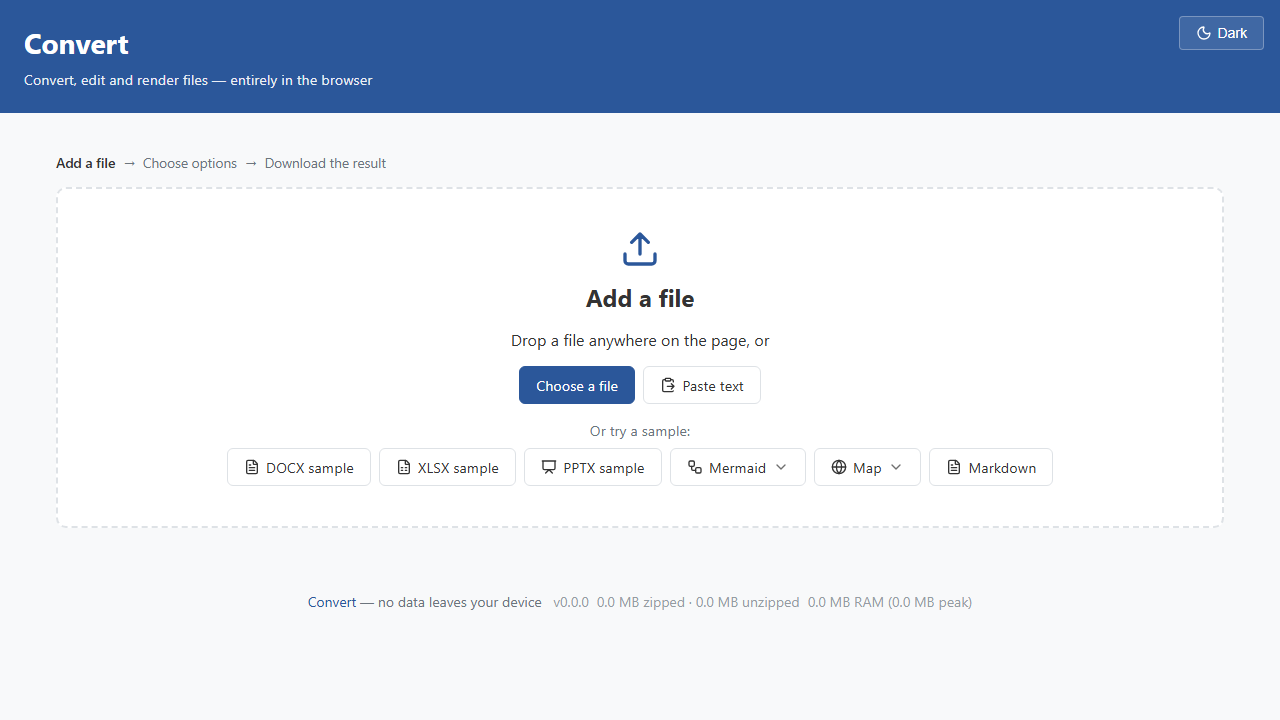
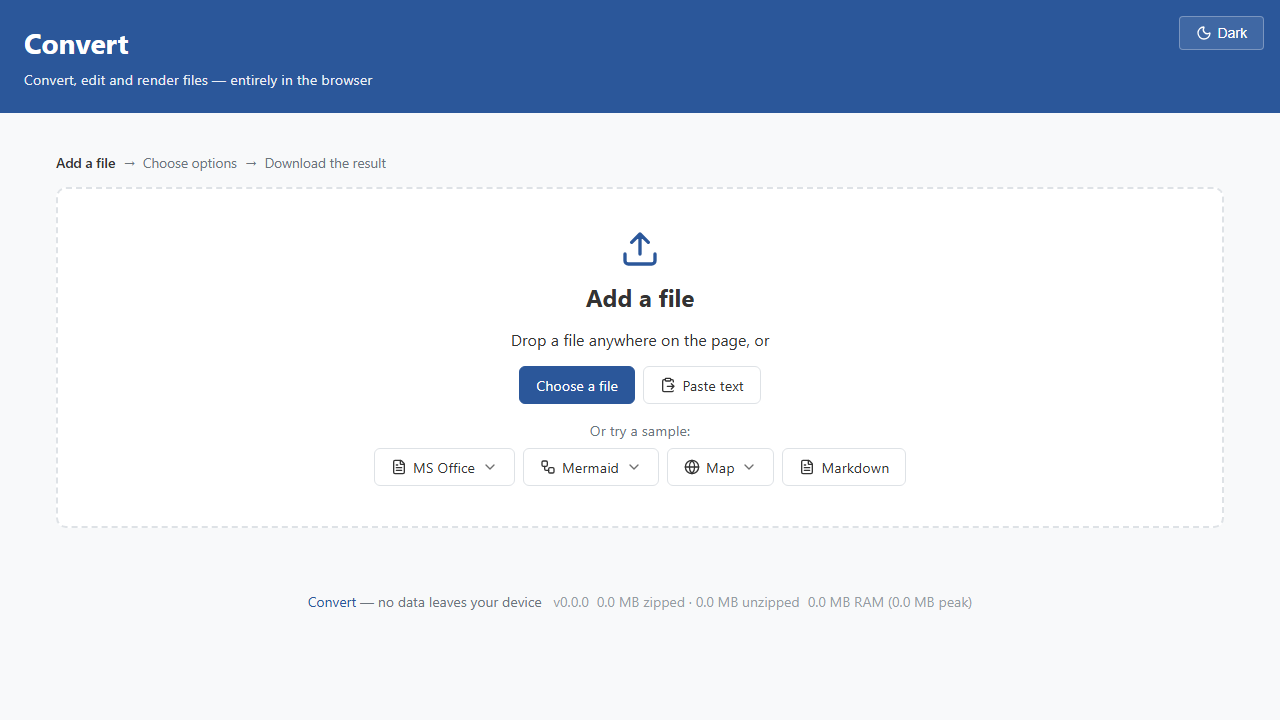
.

Changed region(s): [[0.1875, 0.6417, 0.8125, 0.6722]]

diff --git a/src/Convert.Tests/BrowserTests.HomePage_dark=False_mobile=False.verified.html b/src/Convert.Tests/BrowserTests.HomePage_dark=False_mobile=False.verified.html
@@ -31,7 +31,8 @@
             Choose a file
             <!--!--><input class="visually-hidden" accept=".txt,.html,.htm,.md,.markdown,.svg,.png,.jpg,.jpeg,.webp,.gif,.bmp,.dib,.ico,.docx,.xlsx,.pptx,.pdf,.tiff,.tif,.cur,.ani,.tga,.qoi,.ppm,.pgm,.pbm,.pnm,.exr,.wbmp,.mmd,.mermaid,.geojson,.topojson,.kml,.kmz,.gpx,.wkt,.wkb,.csv,.fgb,.parquet,.geoparquet,.pub,.json" type="file" _bl_2="" style="caret-color: transparent !important;"></label><!--!-->
         <button type="button" class="button"><!--!--><svg xmlns="http://www.w3.org/2000/svg" width="24" height="24" viewBox="0 0 24 24" class="icon" aria-hidden="true"><!--!--><g fill="none" stroke="currentColor" stroke-linecap="round" stroke-linejoin="round" stroke-width="2"><path d="M11 14h10M16 4h2a2 2 0 0 1 2 2v1.344M17 18l4-4l-4-4"></path><path d="M8 4H6a2 2 0 0 0-2 2v14a2 2 0 0 0 2 2h12a2 2 0 0 0 1.793-1.113"></path><rect width="8" height="4" x="8" y="2" rx="1"></rect></g></svg><!--!--> Paste text
-        </button></div><div class="samples"><!--!--><p>Or try a sample:</p><button type="button" class="button sample"><!--!--><svg xmlns="http://www.w3.org/2000/svg" width="24" height="24" viewBox="0 0 24 24" class="icon" aria-hidden="true"><!--!--><g fill="none" stroke="currentColor" stroke-linecap="round" stroke-linejoin="round" stroke-width="2"><path d="M6 22a2 2 0 0 1-2-2V4a2 2 0 0 1 2-2h8a2.4 2.4 0 0 1 1.704.706l3.588 3.588A2.4 2.4 0 0 1 20 8v12a2 2 0 0 1-2 2z"></path><path d="M14 2v5a1 1 0 0 0 1 1h5M10 9H8m8 4H8m8 4H8"></path></g></svg> DOCX sample</button><button type="button" class="button sample"><!--!--><svg xmlns="http://www.w3.org/2000/svg" width="24" height="24" viewBox="0 0 24 24" class="icon" aria-hidden="true"><!--!--><g fill="none" stroke="currentColor" stroke-linecap="round" stroke-linejoin="round" stroke-width="2"><path d="M6 22a2 2 0 0 1-2-2V4a2 2 0 0 1 2-2h8a2.4 2.4 0 0 1 1.704.706l3.588 3.588A2.4 2.4 0 0 1 20 8v12a2 2 0 0 1-2 2z"></path><path d="M14 2v5a1 1 0 0 0 1 1h5M8 13h2m4 0h2m-8 4h2m4 0h2"></path></g></svg> XLSX sample</button><button type="button" class="button sample"><!--!--><svg xmlns="http://www.w3.org/2000/svg" width="24" height="24" viewBox="0 0 24 24" class="icon" aria-hidden="true"><!--!--><path fill="none" stroke="currentColor" stroke-linecap="round" stroke-linejoin="round" stroke-width="2" d="M2 3h20m-1 0v11a2 2 0 0 1-2 2H5a2 2 0 0 1-2-2V3m4 18l5-5l5 5"></path></svg> PPTX sample</button><div class="sample-menu"><button type="button" class="button sample" aria-haspopup="menu" aria-expanded="false"><!--!--><svg xmlns="http://www.w3.org/2000/svg" width="24" height="24" viewBox="0 0 24 24" class="icon" aria-hidden="true"><!--!--><g fill="none" stroke="currentColor" stroke-linecap="round" stroke-linejoin="round" stroke-width="2"><rect width="8" height="8" x="3" y="3" rx="2"></rect><path d="M7 11v4a2 2 0 0 0 2 2h4"></path><rect width="8" height="8" x="13" y="13" rx="2"></rect></g></svg> Mermaid<!--!-->
+        </button></div><div class="samples"><!--!--><p>Or try a sample:</p><div class="sample-menu"><button type="button" class="button sample" aria-haspopup="menu" aria-expanded="false"><!--!--><svg xmlns="http://www.w3.org/2000/svg" width="24" height="24" viewBox="0 0 24 24" class="icon" aria-hidden="true"><!--!--><g fill="none" stroke="currentColor" stroke-linecap="round" stroke-linejoin="round" stroke-width="2"><path d="M6 22a2 2 0 0 1-2-2V4a2 2 0 0 1 2-2h8a2.4 2.4 0 0 1 1.704.706l3.588 3.588A2.4 2.4 0 0 1 20 8v12a2 2 0 0 1-2 2z"></path><path d="M14 2v5a1 1 0 0 0 1 1h5M10 9H8m8 4H8m8 4H8"></path></g></svg> MS Office<!--!-->
+                        <!--!--><svg xmlns="http://www.w3.org/2000/svg" width="24" height="24" viewBox="0 0 24 24" class="icon sample-menu-chevron" aria-hidden="true"><!--!--><path fill="none" stroke="currentColor" stroke-linecap="round" stroke-linejoin="round" stroke-width="2" d="m6 9l6 6l6-6"></path></svg></button></div><div class="sample-menu"><button type="button" class="button sample" aria-haspopup="menu" aria-expanded="false"><!--!--><svg xmlns="http://www.w3.org/2000/svg" width="24" height="24" viewBox="0 0 24 24" class="icon" aria-hidden="true"><!--!--><g fill="none" stroke="currentColor" stroke-linecap="round" stroke-linejoin="round" stroke-width="2"><rect width="8" height="8" x="3" y="3" rx="2"></rect><path d="M7 11v4a2 2 0 0 0 2 2h4"></path><rect width="8" height="8" x="13" y="13" rx="2"></rect></g></svg> Mermaid<!--!-->
                         <!--!--><svg xmlns="http://www.w3.org/2000/svg" width="24" height="24" viewBox="0 0 24 24" class="icon sample-menu-chevron" aria-hidden="true"><!--!--><path fill="none" stroke="currentColor" stroke-linecap="round" stroke-linejoin="round" stroke-width="2" d="m6 9l6 6l6-6"></path></svg></button></div><div class="sample-menu"><button type="button" class="button sample" aria-haspopup="menu" aria-expanded="false"><!--!--><svg xmlns="http://www.w3.org/2000/svg" width="24" height="24" viewBox="0 0 24 24" class="icon" aria-hidden="true"><!--!--><g fill="none" stroke="currentColor" stroke-linecap="round" stroke-linejoin="round" stroke-width="2"><circle cx="12" cy="12" r="10"></circle><path d="M12 2a14.5 14.5 0 0 0 0 20a14.5 14.5 0 0 0 0-20M2 12h20"></path></g></svg> Map<!--!-->
                         <!--!--><svg xmlns="http://www.w3.org/2000/svg" width="24" height="24" viewBox="0 0 24 24" class="icon sample-menu-chevron" aria-hidden="true"><!--!--><path fill="none" stroke="currentColor" stroke-linecap="round" stroke-linejoin="round" stroke-width="2" d="m6 9l6 6l6-6"></path></svg></button></div><button type="button" class="button sample"><!--!--><svg xmlns="http://www.w3.org/2000/svg" width="24" height="24" viewBox="0 0 24 24" class="icon" aria-hidden="true"><!--!--><g fill="none" stroke="currentColor" stroke-linecap="round" stroke-linejoin="round" stroke-width="2"><path d="M6 22a2 2 0 0 1-2-2V4a2 2 0 0 1 2-2h8a2.4 2.4 0 0 1 1.704.706l3.588 3.588A2.4 2.4 0 0 1 20 8v12a2 2 0 0 1-2 2z"></path><path d="M14 2v5a1 1 0 0 0 1 1h5M10 9H8m8 4H8m8 4H8"></path></g></svg> Markdown</button></div></div></div><footer><!--!--><a href="https://github.com/SimonCropp/Convert" target="_blank">Convert</a> — no data leaves your device
     <span class="footer-version">v0.0.0</span><span class="footer-size" title="Total app download — compressed over the wire / uncompressed">0.0 MB zipped · 0.0 MB unzipped</span><span class="footer-ram" title="Memory the app is using — live .NET heap now / peak WebAssembly heap (never shrinks)">0.0 MB RAM (0.0 MB peak)</span></footer><!--!-->

diff --git a/src/Convert.Tests/BrowserTests.HomePage_dark=False_mobile=True.verified.html b/src/Convert.Tests/BrowserTests.HomePage_dark=False_mobile=True.verified.html
@@ -31,7 +31,8 @@
             Choose a file
             <!--!--><input class="visually-hidden" accept=".txt,.html,.htm,.md,.markdown,.svg,.png,.jpg,.jpeg,.webp,.gif,.bmp,.dib,.ico,.docx,.xlsx,.pptx,.pdf,.tiff,.tif,.cur,.ani,.tga,.qoi,.ppm,.pgm,.pbm,.pnm,.exr,.wbmp,.mmd,.mermaid,.geojson,.topojson,.kml,.kmz,.gpx,.wkt,.wkb,.csv,.fgb,.parquet,.geoparquet,.pub,.json" type="file" _bl_2="" style="caret-color: transparent !important;"></label><!--!-->
         <button type="button" class="button"><!--!--><svg xmlns="http://www.w3.org/2000/svg" width="24" height="24" viewBox="0 0 24 24" class="icon" aria-hidden="true"><!--!--><g fill="none" stroke="currentColor" stroke-linecap="round" stroke-linejoin="round" stroke-width="2"><path d="M11 14h10M16 4h2a2 2 0 0 1 2 2v1.344M17 18l4-4l-4-4"></path><path d="M8 4H6a2 2 0 0 0-2 2v14a2 2 0 0 0 2 2h12a2 2 0 0 0 1.793-1.113"></path><rect width="8" height="4" x="8" y="2" rx="1"></rect></g></svg><!--!--> Paste text
-        </button></div><div class="samples"><!--!--><p>Or try a sample:</p><button type="button" class="button sample"><!--!--><svg xmlns="http://www.w3.org/2000/svg" width="24" height="24" viewBox="0 0 24 24" class="icon" aria-hidden="true"><!--!--><g fill="none" stroke="currentColor" stroke-linecap="round" stroke-linejoin="round" stroke-width="2"><path d="M6 22a2 2 0 0 1-2-2V4a2 2 0 0 1 2-2h8a2.4 2.4 0 0 1 1.704.706l3.588 3.588A2.4 2.4 0 0 1 20 8v12a2 2 0 0 1-2 2z"></path><path d="M14 2v5a1 1 0 0 0 1 1h5M10 9H8m8 4H8m8 4H8"></path></g></svg> DOCX sample</button><button type="button" class="button sample"><!--!--><svg xmlns="http://www.w3.org/2000/svg" width="24" height="24" viewBox="0 0 24 24" class="icon" aria-hidden="true"><!--!--><g fill="none" stroke="currentColor" stroke-linecap="round" stroke-linejoin="round" stroke-width="2"><path d="M6 22a2 2 0 0 1-2-2V4a2 2 0 0 1 2-2h8a2.4 2.4 0 0 1 1.704.706l3.588 3.588A2.4 2.4 0 0 1 20 8v12a2 2 0 0 1-2 2z"></path><path d="M14 2v5a1 1 0 0 0 1 1h5M8 13h2m4 0h2m-8 4h2m4 0h2"></path></g></svg> XLSX sample</button><button type="button" class="button sample"><!--!--><svg xmlns="http://www.w3.org/2000/svg" width="24" height="24" viewBox="0 0 24 24" class="icon" aria-hidden="true"><!--!--><path fill="none" stroke="currentColor" stroke-linecap="round" stroke-linejoin="round" stroke-width="2" d="M2 3h20m-1 0v11a2 2 0 0 1-2 2H5a2 2 0 0 1-2-2V3m4 18l5-5l5 5"></path></svg> PPTX sample</button><div class="sample-menu"><button type="button" class="button sample" aria-haspopup="menu" aria-expanded="false"><!--!--><svg xmlns="http://www.w3.org/2000/svg" width="24" height="24" viewBox="0 0 24 24" class="icon" aria-hidden="true"><!--!--><g fill="none" stroke="currentColor" stroke-linecap="round" stroke-linejoin="round" stroke-width="2"><rect width="8" height="8" x="3" y="3" rx="2"></rect><path d="M7 11v4a2 2 0 0 0 2 2h4"></path><rect width="8" height="8" x="13" y="13" rx="2"></rect></g></svg> Mermaid<!--!-->
+        </button></div><div class="samples"><!--!--><p>Or try a sample:</p><div class="sample-menu"><button type="button" class="button sample" aria-haspopup="menu" aria-expanded="false"><!--!--><svg xmlns="http://www.w3.org/2000/svg" width="24" height="24" viewBox="0 0 24 24" class="icon" aria-hidden="true"><!--!--><g fill="none" stroke="currentColor" stroke-linecap="round" stroke-linejoin="round" stroke-width="2"><path d="M6 22a2 2 0 0 1-2-2V4a2 2 0 0 1 2-2h8a2.4 2.4 0 0 1 1.704.706l3.588 3.588A2.4 2.4 0 0 1 20 8v12a2 2 0 0 1-2 2z"></path><path d="M14 2v5a1 1 0 0 0 1 1h5M10 9H8m8 4H8m8 4H8"></path></g></svg> MS Office<!--!-->
+                        <!--!--><svg xmlns="http://www.w3.org/2000/svg" width="24" height="24" viewBox="0 0 24 24" class="icon sample-menu-chevron" aria-hidden="true"><!--!--><path fill="none" stroke="currentColor" stroke-linecap="round" stroke-linejoin="round" stroke-width="2" d="m6 9l6 6l6-6"></path></svg></button></div><div class="sample-menu"><button type="button" class="button sample" aria-haspopup="menu" aria-expanded="false"><!--!--><svg xmlns="http://www.w3.org/2000/svg" width="24" height="24" viewBox="0 0 24 24" class="icon" aria-hidden="true"><!--!--><g fill="none" stroke="currentColor" stroke-linecap="round" stroke-linejoin="round" stroke-width="2"><rect width="8" height="8" x="3" y="3" rx="2"></rect><path d="M7 11v4a2 2 0 0 0 2 2h4"></path><rect width="8" height="8" x="13" y="13" rx="2"></rect></g></svg> Mermaid<!--!-->
                         <!--!--><svg xmlns="http://www.w3.org/2000/svg" width="24" height="24" viewBox="0 0 24 24" class="icon sample-menu-chevron" aria-hidden="true"><!--!--><path fill="none" stroke="currentColor" stroke-linecap="round" stroke-linejoin="round" stroke-width="2" d="m6 9l6 6l6-6"></path></svg></button></div><div class="sample-menu"><button type="button" class="button sample" aria-haspopup="menu" aria-expanded="false"><!--!--><svg xmlns="http://www.w3.org/2000/svg" width="24" height="24" viewBox="0 0 24 24" class="icon" aria-hidden="true"><!--!--><g fill="none" stroke="currentColor" stroke-linecap="round" stroke-linejoin="round" stroke-width="2"><circle cx="12" cy="12" r="10"></circle><path d="M12 2a14.5 14.5 0 0 0 0 20a14.5 14.5 0 0 0 0-20M2 12h20"></path></g></svg> Map<!--!-->
                         <!--!--><svg xmlns="http://www.w3.org/2000/svg" width="24" height="24" viewBox="0 0 24 24" class="icon sample-menu-chevron" aria-hidden="true"><!--!--><path fill="none" stroke="currentColor" stroke-linecap="round" stroke-linejoin="round" stroke-width="2" d="m6 9l6 6l6-6"></path></svg></button></div><button type="button" class="button sample"><!--!--><svg xmlns="http://www.w3.org/2000/svg" width="24" height="24" viewBox="0 0 24 24" class="icon" aria-hidden="true"><!--!--><g fill="none" stroke="currentColor" stroke-linecap="round" stroke-linejoin="round" stroke-width="2"><path d="M6 22a2 2 0 0 1-2-2V4a2 2 0 0 1 2-2h8a2.4 2.4 0 0 1 1.704.706l3.588 3.588A2.4 2.4 0 0 1 20 8v12a2 2 0 0 1-2 2z"></path><path d="M14 2v5a1 1 0 0 0 1 1h5M10 9H8m8 4H8m8 4H8"></path></g></svg> Markdown</button></div></div></div><footer><!--!--><a href="https://github.com/SimonCropp/Convert" target="_blank">Convert</a> — no data leaves your device
     <span class="footer-version">v0.0.0</span><span class="footer-size" title="Total app download — compressed over the wire / uncompressed">0.0 MB zipped · 0.0 MB unzipped</span><span class="footer-ram" title="Memory the app is using — live .NET heap now / peak WebAssembly heap (never shrinks)">0.0 MB RAM (0.0 MB peak)</span></footer><!--!-->

diff --git a/src/Convert.Tests/BrowserTests.HomePage_dark=True_mobile=False.verified.html b/src/Convert.Tests/BrowserTests.HomePage_dark=True_mobile=False.verified.html
@@ -31,7 +31,8 @@
             Choose a file
             <!--!--><input class="visually-hidden" accept=".txt,.html,.htm,.md,.markdown,.svg,.png,.jpg,.jpeg,.webp,.gif,.bmp,.dib,.ico,.docx,.xlsx,.pptx,.pdf,.tiff,.tif,.cur,.ani,.tga,.qoi,.ppm,.pgm,.pbm,.pnm,.exr,.wbmp,.mmd,.mermaid,.geojson,.topojson,.kml,.kmz,.gpx,.wkt,.wkb,.csv,.fgb,.parquet,.geoparquet,.pub,.json" type="file" _bl_2="" style="caret-color: transparent !important;"></label><!--!-->
         <button type="button" class="button"><!--!--><svg xmlns="http://www.w3.org/2000/svg" width="24" height="24" viewBox="0 0 24 24" class="icon" aria-hidden="true"><!--!--><g fill="none" stroke="currentColor" stroke-linecap="round" stroke-linejoin="round" stroke-width="2"><path d="M11 14h10M16 4h2a2 2 0 0 1 2 2v1.344M17 18l4-4l-4-4"></path><path d="M8 4H6a2 2 0 0 0-2 2v14a2 2 0 0 0 2 2h12a2 2 0 0 0 1.793-1.113"></path><rect width="8" height="4" x="8" y="2" rx="1"></rect></g></svg><!--!--> Paste text
-        </button></div><div class="samples"><!--!--><p>Or try a sample:</p><button type="button" class="button sample"><!--!--><svg xmlns="http://www.w3.org/2000/svg" width="24" height="24" viewBox="0 0 24 24" class="icon" aria-hidden="true"><!--!--><g fill="none" stroke="currentColor" stroke-linecap="round" stroke-linejoin="round" stroke-width="2"><path d="M6 22a2 2 0 0 1-2-2V4a2 2 0 0 1 2-2h8a2.4 2.4 0 0 1 1.704.706l3.588 3.588A2.4 2.4 0 0 1 20 8v12a2 2 0 0 1-2 2z"></path><path d="M14 2v5a1 1 0 0 0 1 1h5M10 9H8m8 4H8m8 4H8"></path></g></svg> DOCX sample</button><button type="button" class="button sample"><!--!--><svg xmlns="http://www.w3.org/2000/svg" width="24" height="24" viewBox="0 0 24 24" class="icon" aria-hidden="true"><!--!--><g fill="none" stroke="currentColor" stroke-linecap="round" stroke-linejoin="round" stroke-width="2"><path d="M6 22a2 2 0 0 1-2-2V4a2 2 0 0 1 2-2h8a2.4 2.4 0 0 1 1.704.706l3.588 3.588A2.4 2.4 0 0 1 20 8v12a2 2 0 0 1-2 2z"></path><path d="M14 2v5a1 1 0 0 0 1 1h5M8 13h2m4 0h2m-8 4h2m4 0h2"></path></g></svg> XLSX sample</button><button type="button" class="button sample"><!--!--><svg xmlns="http://www.w3.org/2000/svg" width="24" height="24" viewBox="0 0 24 24" class="icon" aria-hidden="true"><!--!--><path fill="none" stroke="currentColor" stroke-linecap="round" stroke-linejoin="round" stroke-width="2" d="M2 3h20m-1 0v11a2 2 0 0 1-2 2H5a2 2 0 0 1-2-2V3m4 18l5-5l5 5"></path></svg> PPTX sample</button><div class="sample-menu"><button type="button" class="button sample" aria-haspopup="menu" aria-expanded="false"><!--!--><svg xmlns="http://www.w3.org/2000/svg" width="24" height="24" viewBox="0 0 24 24" class="icon" aria-hidden="true"><!--!--><g fill="none" stroke="currentColor" stroke-linecap="round" stroke-linejoin="round" stroke-width="2"><rect width="8" height="8" x="3" y="3" rx="2"></rect><path d="M7 11v4a2 2 0 0 0 2 2h4"></path><rect width="8" height="8" x="13" y="13" rx="2"></rect></g></svg> Mermaid<!--!-->
+        </button></div><div class="samples"><!--!--><p>Or try a sample:</p><div class="sample-menu"><button type="button" class="button sample" aria-haspopup="menu" aria-expanded="false"><!--!--><svg xmlns="http://www.w3.org/2000/svg" width="24" height="24" viewBox="0 0 24 24" class="icon" aria-hidden="true"><!--!--><g fill="none" stroke="currentColor" stroke-linecap="round" stroke-linejoin="round" stroke-width="2"><path d="M6 22a2 2 0 0 1-2-2V4a2 2 0 0 1 2-2h8a2.4 2.4 0 0 1 1.704.706l3.588 3.588A2.4 2.4 0 0 1 20 8v12a2 2 0 0 1-2 2z"></path><path d="M14 2v5a1 1 0 0 0 1 1h5M10 9H8m8 4H8m8 4H8"></path></g></svg> MS Office<!--!-->
+                        <!--!--><svg xmlns="http://www.w3.org/2000/svg" width="24" height="24" viewBox="0 0 24 24" class="icon sample-menu-chevron" aria-hidden="true"><!--!--><path fill="none" stroke="currentColor" stroke-linecap="round" stroke-linejoin="round" stroke-width="2" d="m6 9l6 6l6-6"></path></svg></button></div><div class="sample-menu"><button type="button" class="button sample" aria-haspopup="menu" aria-expanded="false"><!--!--><svg xmlns="http://www.w3.org/2000/svg" width="24" height="24" viewBox="0 0 24 24" class="icon" aria-hidden="true"><!--!--><g fill="none" stroke="currentColor" stroke-linecap="round" stroke-linejoin="round" stroke-width="2"><rect width="8" height="8" x="3" y="3" rx="2"></rect><path d="M7 11v4a2 2 0 0 0 2 2h4"></path><rect width="8" height="8" x="13" y="13" rx="2"></rect></g></svg> Mermaid<!--!-->
                         <!--!--><svg xmlns="http://www.w3.org/2000/svg" width="24" height="24" viewBox="0 0 24 24" class="icon sample-menu-chevron" aria-hidden="true"><!--!--><path fill="none" stroke="currentColor" stroke-linecap="round" stroke-linejoin="round" stroke-width="2" d="m6 9l6 6l6-6"></path></svg></button></div><div class="sample-menu"><button type="button" class="button sample" aria-haspopup="menu" aria-expanded="false"><!--!--><svg xmlns="http://www.w3.org/2000/svg" width="24" height="24" viewBox="0 0 24 24" class="icon" aria-hidden="true"><!--!--><g fill="none" stroke="currentColor" stroke-linecap="round" stroke-linejoin="round" stroke-width="2"><circle cx="12" cy="12" r="10"></circle><path d="M12 2a14.5 14.5 0 0 0 0 20a14.5 14.5 0 0 0 0-20M2 12h20"></path></g></svg> Map<!--!-->
                         <!--!--><svg xmlns="http://www.w3.org/2000/svg" width="24" height="24" viewBox="0 0 24 24" class="icon sample-menu-chevron" aria-hidden="true"><!--!--><path fill="none" stroke="currentColor" stroke-linecap="round" stroke-linejoin="round" stroke-width="2" d="m6 9l6 6l6-6"></path></svg></button></div><button type="button" class="button sample"><!--!--><svg xmlns="http://www.w3.org/2000/svg" width="24" height="24" viewBox="0 0 24 24" class="icon" aria-hidden="true"><!--!--><g fill="none" stroke="currentColor" stroke-linecap="round" stroke-linejoin="round" stroke-width="2"><path d="M6 22a2 2 0 0 1-2-2V4a2 2 0 0 1 2-2h8a2.4 2.4 0 0 1 1.704.706l3.588 3.588A2.4 2.4 0 0 1 20 8v12a2 2 0 0 1-2 2z"></path><path d="M14 2v5a1 1 0 0 0 1 1h5M10 9H8m8 4H8m8 4H8"></path></g></svg> Markdown</button></div></div></div><footer><!--!--><a href="https://github.com/SimonCropp/Convert" target="_blank">Convert</a> — no data leaves your device
     <span class="footer-version">v0.0.0</span><span class="footer-size" title="Total app download — compressed over the wire / uncompressed">0.0 MB zipped · 0.0 MB unzipped</span><span class="footer-ram" title="Memory the app is using — live .NET heap now / peak WebAssembly heap (never shrinks)">0.0 MB RAM (0.0 MB peak)</span></footer><!--!-->

diff --git a/src/Convert.Tests/BrowserTests.cs b/src/Convert.Tests/BrowserTests.cs
@@ -115,10 +115,10 @@ public class BrowserTests
         () => ("Mermaid/Flowchart", "SVG", null, ".svg"),
         () => ("Map/GeoJSON", "KML", null, ".kml"),
         () => ("Map/GeoParquet", "GEOJSON", null, ".geojson"),
-        () => ("DOCX sample", "PDF", "Morph", ".pdf"),
-        () => ("DOCX sample", "PDF", "OfficeIMO", ".pdf"),
-        () => ("PPTX sample", "PDF", "OfficeIMO", ".pdf"),
-        () => ("XLSX sample", "PDF", "OfficeIMO", ".pdf"),
+        () => ("MS Office/Word document", "PDF", "Morph", ".pdf"),
+        () => ("MS Office/Word document", "PDF", "OfficeIMO", ".pdf"),
+        () => ("MS Office/PowerPoint presentation", "PDF", "OfficeIMO", ".pdf"),
+        () => ("MS Office/Excel workbook", "PDF", "OfficeIMO", ".pdf"),
         () => ("Markdown", "DOCX", "OfficeIMO", ".docx")
     ];
 
@@ -160,7 +160,7 @@ public class BrowserTests
             {
                 Name = "shape.svg",
                 MimeType = "image/svg+xml",
-                Buffer = Encoding.UTF8.GetBytes("""<svg xmlns="http://www.w3.org/2000/svg" width="40" height="30"><rect width="40" height="30" fill="#2b579a"/></svg>""")
+                Buffer = """<svg xmlns="http://www.w3.org/2000/svg" width="40" height="30"><rect width="40" height="30" fill="#2b579a"/></svg>"""u8.ToArray()
             });
         await ConvertAndDownloadAsync(page, "PNG", null, ".png");
     }
@@ -234,7 +234,7 @@ public class BrowserTests
         var page = await browser!.NewPageAsync();
         await page.GotoAsync(Url);
         await SettleAsync(page);
-        await page.ClickAsync("button.sample:has-text('DOCX sample')");
+        await ChooseSampleAsync(page, "MS Office/Word document");
         await page.ClickAsync("[role=tab]:text-is('Edit')", new() { Timeout = 60000 });
         await page.WaitForSelectorAsync(".editor-ribbon", new() { Timeout = 60000 });
         var lines = page.Locator(".morph-preview .text-line");
@@ -247,7 +247,7 @@ public class BrowserTests
         await page.WaitForSelectorAsync(".editor-dirty", new() { Timeout = 60000 });
 
         var download = await ConvertAndDownloadAsync(page, "TXT", null, ".txt");
-        var text = await File.ReadAllTextAsync((await download.PathAsync())!);
+        var text = await File.ReadAllTextAsync((await download.PathAsync()));
         // The heading is "pta" in all-caps style; text output drops the style.
         await Assert.That(text).Contains("pta EDITED");
     }

diff --git a/src/Convert.Tests/ComponentTests.cs b/src/Convert.Tests/ComponentTests.cs
@@ -44,7 +44,7 @@ public class ComponentTests
 
         var session = context.Services.GetRequiredService<ConvertSession>();
         await page.InvokeAsync(() => session.LoadTextAsync(FileTypes.Markdown, "# Hello\n\nSome *text*."));
-        page.WaitForAssertion(() => page.Find(".target-picker"));
+        await page.WaitForAssertionAsync(() => page.Find(".target-picker"));
         await Assert.That(page.FindAll(".drop-zone").Count).IsEqualTo(0);
         // Markdig's preview asked for Markdig.
         await Assert.That(loader.Requests.Any(_ => _.Contains("Markdig.wasm"))).IsTrue();
@@ -57,7 +57,7 @@ public class ComponentTests
         await Assert.That(session.Conversion!.Id).IsEqualTo("md-html-markdig");
 
         await page.Find(".convert-button").ClickAsync(new());
-        page.WaitForAssertion(() => page.Find(".download-button"));
+        await page.WaitForAssertionAsync(() => page.Find(".download-button"));
         await Assert.That(session.Result!.Parts[0].Text).Contains("<h1");
         await Assert.That(page.Find(".download-button").TextContent).Contains("pasted.html");
 
@@ -76,7 +76,7 @@ public class ComponentTests
         var page = context.Render<Index>();
         var session = context.Services.GetRequiredService<ConvertSession>();
         await page.InvokeAsync(() => session.LoadAsync("thing.xyz", [1, 2, 3]));
-        page.WaitForAssertion(() => page.Find(".error"));
+        await page.WaitForAssertionAsync(() => page.Find(".error"));
         await Assert.That(page.FindAll(".error-report").Count).IsEqualTo(0);
     }
 

diff --git a/src/Convert.Skia/Runners/SvgRunner.cs b/src/Convert.Skia/Runners/SvgRunner.cs
@@ -49,12 +49,19 @@ static class SvgRunner
         svg.Settings.TypefaceProviders = [typefaces];
         try
         {
-            if (svg.FromSvg(text) is { } picture && picture.CullRect is { Width: > 0, Height: > 0 })
+            if (svg.FromSvg(text) is
+                {
+                    CullRect:
+                    {
+                        Width: > 0,
+                        Height: > 0
+                    }
+                })
             {
                 return svg;
             }
         }
-        catch (Exception exception) when (exception is System.Xml.XmlException or FormatException or InvalidOperationException)
+        catch (Exception exception) when (exception is XmlException or FormatException or InvalidOperationException)
         {
             svg.Dispose();
             throw new UserInputException($"The SVG could not be read: {exception.Message}", exception);

diff --git a/src/Convert.Core/Loading/PackServiceProviderFactory.cs b/src/Convert.Core/Loading/PackServiceProviderFactory.cs
@@ -16,7 +16,6 @@ public sealed class PackServiceProviderFactory : IServiceProviderFactory<IServic
     // Root provider. WebAssemblyHost asks it for IServiceScopeFactory and hands the one scope it creates to
     // the renderer, so returning this here is what puts every component injection through Resolve.
     sealed class Provider(ServiceProvider inner) :
-        IServiceProvider,
         IServiceScopeFactory,
         IKeyedServiceProvider,
         IServiceProviderIsService,
@@ -45,7 +44,6 @@ public sealed class PackServiceProviderFactory : IServiceProviderFactory<IServic
 
     sealed class Scope(IServiceScope inner, IServiceScopeFactory root) :
         IServiceScope,
-        IServiceProvider,
         IKeyedServiceProvider,
         IServiceProviderIsService,
         IAsyncDisposable

diff --git a/src/Convert.Morph/MorphPack.cs b/src/Convert.Morph/MorphPack.cs
@@ -41,7 +41,7 @@ public sealed class MorphPack : IPack
                 registry.Add(new MorphConversion(source, target));
             }
 
-            registry.Add(new Sample($"{source.ShortName} sample", source.Icon, $"_content/Morph.Blazor/sample/sample{source.Extension}", $"sample{source.Extension}"));
+            registry.Add(new Sample(source.DisplayName, source.Icon, $"_content/Morph.Blazor/sample/sample{source.Extension}", $"sample{source.Extension}", "MS Office"));
         }
 
         registry.Add(new Editor(FileTypes.Docx, Assemblies, typeof(Editors.DocxEditor)));

diff --git a/src/Convert.Core/Previews/PreviewBase.cs b/src/Convert.Core/Previews/PreviewBase.cs
@@ -33,13 +33,15 @@ public abstract class BlobPreviewBase : PreviewBase, IAsyncDisposable
         Url = await Interop.CreateObjectUrlAsync(ContentType, Document.Bytes);
     }
 
-    async Task RevokeAsync()
+    Task RevokeAsync()
     {
         if (Url is { } url)
         {
             Url = null;
-            await Interop.RevokeObjectUrlAsync(url);
+            return Interop.RevokeObjectUrlAsync(url);
         }
+
+        return Task.CompletedTask;
     }
 
     public async ValueTask DisposeAsync()

diff --git a/src/Convert.OfficeIMO/Runners/MarkdownRunner.cs b/src/Convert.OfficeIMO/Runners/MarkdownRunner.cs
@@ -16,7 +16,7 @@ static class MarkdownRunner
         Guard(markdown);
         var options = MarkdownRendererPresets.CreateStrictMinimalPortable();
         options.MarkdownOverflowHandling = OverflowHandling.Throw;
-        return global::OfficeIMO.MarkdownRenderer.MarkdownRenderer.RenderBodyHtml(markdown, options);
+        return MarkdownRenderer.RenderBodyHtml(markdown, options);
     }
 
     public static (string Markdown, IReadOnlyList<string> Notes) FromHtml(string html)

diff --git a/src/Convert.OfficeIMO/Runners/OfficeImoFonts.cs b/src/Convert.OfficeIMO/Runners/OfficeImoFonts.cs
@@ -55,7 +55,7 @@ public static class OfficeImoFonts
         public OfficeFontFaceCollection Layout()
         {
             var fonts = new OfficeFontFaceCollection()
-                .Add(Family, Regular, OfficeFontStyle.Regular)
+                .Add(Family, Regular)
                 .Add(Family, Bold, OfficeFontStyle.Bold)
                 .Add(Family, Italic, OfficeFontStyle.Italic)
                 .Add(Family, BoldItalic, OfficeFontStyle.Bold | OfficeFontStyle.Italic);

diff --git a/src/Convert.Core/Components/PreviewHost.razor.cs b/src/Convert.Core/Components/PreviewHost.razor.cs
@@ -19,7 +19,7 @@ public partial class PreviewHost
     bool loading;
     Exception? error;
 
-    Dictionary<string, object?> Parameters => new() { ["Document"] = Document };
+    Dictionary<string, object> Parameters => new() { ["Document"] = Document };
 
     string Key => $"{Document.Type.Id}/{Document.FileName}";
 
